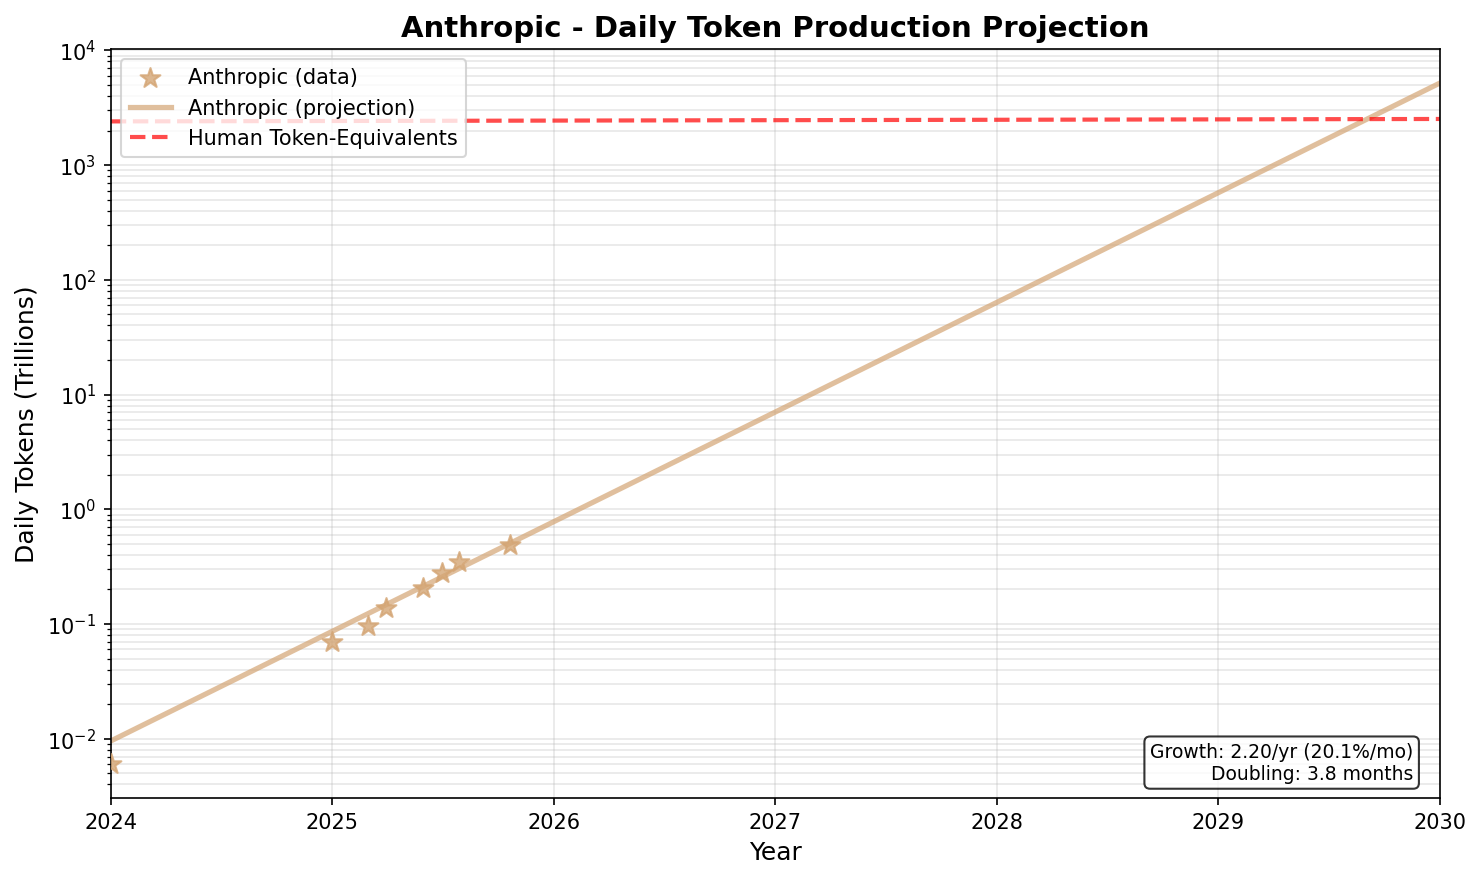
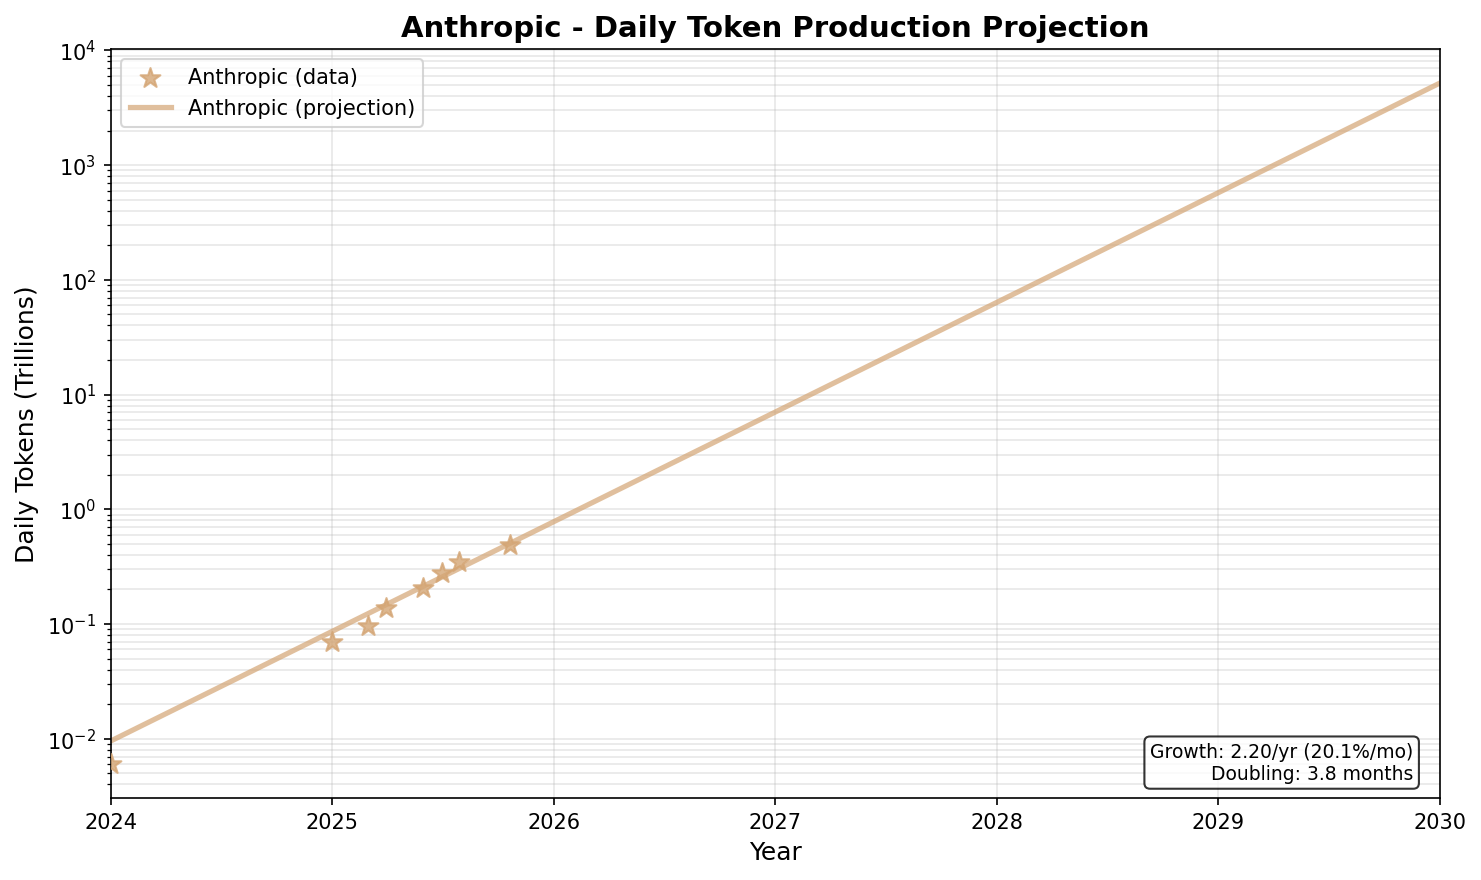
openai projection

Changed region(s): [[0.0621, 0.1227, 0.9629, 0.1841]]

diff --git a/python/welfareseconds/per_company_daily_token_projection.py b/python/welfareseconds/per_company_daily_token_projection.py
@@ -821,7 +821,8 @@ def project_forward(companies: dict, models: dict, end_date: datetime = datetime
         openai_api = series_values.get('OpenAI API', 0)
         openai_inference = series_values.get('OpenAI (Inference)', 0)
         openai_revenue = series_values.get('OpenAI (Revenue)', 0)
-        openai_avg = (openai_chatgpt + openai_api + openai_inference + openai_revenue) / 3
+        # Average 3 methods: (ChatGPT + API), Inference, Revenue
+        openai_avg = ((openai_chatgpt + openai_api) + openai_inference + openai_revenue) / 3
         
         # Google: sum products
         google_total = series_values.get('Gemini Assistant', 0) + series_values.get('Gemini API', 0)
@@ -1060,14 +1061,74 @@ def create_individual_company_plots(companies: dict, models: dict):
     # Time range for plotting
     t_plot = np.linspace(PLOT_BEGIN_DATE, PLOT_END_DATE, 300)
     
-    # Load population data for human token-equivalents line
-    pop_df = pd.read_csv('population.csv')
-    pop_years = pop_df['Year'].values
-    pop_values = pop_df['all years'].values
-    pop_interpolated = np.interp(t_plot, pop_years, pop_values)
-    human_token_equivalents = pop_interpolated * 16 * 60 * 60 * HUMAN_TOKENS_PER_SECOND / 1e12
+    # ==========================================================================
+    # Create combined OpenAI plot with all methods
+    # ==========================================================================
+    fig, ax = plt.subplots(figsize=(12, 7))
     
+    # Get OpenAI data and models
+    openai_series = {name: (companies[name], models[name]) 
+                     for name in companies.keys() if name.startswith('OpenAI')}
+    
+    # Define colors and styles for each OpenAI method
+    openai_styles = {
+        'OpenAI ChatGPT': {'color': '#2ecc71', 'marker': 'o', 'linestyle': '-', 'label': 'ChatGPT'},
+        'OpenAI API': {'color': '#3498db', 'marker': 's', 'linestyle': '-', 'label': 'API'},
+        'OpenAI (Inference)': {'color': '#e74c3c', 'marker': 'P', 'linestyle': '--', 'label': 'Inference-scaled'},
+        'OpenAI (Revenue)': {'color': '#9b59b6', 'marker': '*', 'linestyle': '--', 'label': 'Revenue-scaled'},
+    }
+    
+    # Plot each OpenAI method
+    openai_projections = {}
+    for name, (df, params) in openai_series.items():
+        style = openai_styles[name]
+        
+        # Plot data points
+        ax.scatter(df['decimal_date'], df['daily_tokens'] / 1e12, 
+                   s=80, color=style['color'], marker=style['marker'], 
+                   alpha=0.7, zorder=5)
+        
+        # Plot trendline
+        y_fit = exponential_model(t_plot - 2024, params['a'], params['b']) / 1e12
+        ax.plot(t_plot, y_fit, linestyle=style['linestyle'], color=style['color'], 
+                alpha=0.7, linewidth=2, label=style['label'])
+        
+        openai_projections[name] = y_fit
+    
+    # Calculate and plot ChatGPT + API combined
+    chatgpt_api_combined = openai_projections['OpenAI ChatGPT'] + openai_projections['OpenAI API']
+    ax.plot(t_plot, chatgpt_api_combined, linestyle='-', color='#f39c12', 
+            linewidth=2.5, label='ChatGPT + API', alpha=0.8)
+    
+    # Calculate and plot average of 3 methods: (ChatGPT + API), Inference, Revenue
+    openai_avg = (chatgpt_api_combined + openai_projections['OpenAI (Inference)'] + 
+                  openai_projections['OpenAI (Revenue)']) / 3
+    ax.plot(t_plot, openai_avg, linestyle='-', color='#1a1a1a', 
+            linewidth=3, label='Average (3 methods)', alpha=0.9)
+    
+    ax.set_yscale('log')
+    ax.set_xlabel('Year', fontsize=12)
+    ax.set_ylabel('Daily Tokens (Trillions)', fontsize=12)
+    ax.set_title('OpenAI - Daily Token Production (Multiple Estimation Methods)', fontsize=14, fontweight='bold')
+    
+    ax.legend(loc='upper left', fontsize=9)
+    ax.grid(True, alpha=0.3, which='both')
+    ax.set_xlim(PLOT_BEGIN_DATE, PLOT_END_DATE)
+    
+    plt.tight_layout()
+    filepath = os.path.join(PLOTS_FOLDER, 'openai_combined_projection.png')
+    plt.savefig(filepath, dpi=150, bbox_inches='tight')
+    plt.close(fig)
+    print(f"  Saved {filepath}")
+    
+    # ==========================================================================
+    # Create individual plots for non-OpenAI companies
+    # ==========================================================================
     for name, df in companies.items():
+        # Skip OpenAI - we already made a combined plot
+        if name.startswith('OpenAI'):
+            continue
+            
         fig, ax = plt.subplots(figsize=(10, 6))
         
         # Plot data points
@@ -1080,10 +1141,6 @@ def create_individual_company_plots(companies: dict, models: dict):
         y_fit = exponential_model(t_plot - 2024, params['a'], params['b']) / 1e12
         ax.plot(t_plot, y_fit, '-', color=colors[name], alpha=0.7, linewidth=2.5, 
                 label=f'{name} (projection)')
-        
-        # Plot human token-equivalents for reference
-        ax.plot(t_plot, human_token_equivalents, color='red', linestyle='--', 
-                linewidth=2, label='Human Token-Equivalents', alpha=0.7)
         
         ax.set_yscale('log')
         ax.set_xlabel('Year', fontsize=12)
@@ -1111,7 +1168,14 @@ def create_individual_company_plots(companies: dict, models: dict):
         
         print(f"  Saved {filepath}")
     
-    # Also create a human token-equivalents only plot
+    # Load population data for human token-equivalents plot
+    pop_df = pd.read_csv('population.csv')
+    pop_years = pop_df['Year'].values
+    pop_values = pop_df['all years'].values
+    pop_interpolated = np.interp(t_plot, pop_years, pop_values)
+    human_token_equivalents = pop_interpolated * 16 * 60 * 60 * HUMAN_TOKENS_PER_SECOND / 1e12
+    
+    # Create a human token-equivalents only plot
     fig, ax = plt.subplots(figsize=(10, 6))
     ax.plot(t_plot, human_token_equivalents, color='red', linewidth=2.5, label='Human Token-Equivalents')
     ax.set_yscale('log')
@@ -1182,9 +1246,9 @@ def create_summary_table(companies: dict, models: dict):
     def calc_total(decimal):
         series = {name: exponential_model(decimal - 2024, models[name]['a'], models[name]['b'])
                   for name in companies.keys()}
-        # OpenAI: average 3 methods
-        openai_avg = (series.get('OpenAI ChatGPT', 0) + series.get('OpenAI API', 0) + 
-                      series.get('OpenAI (Inference)', 0) + series.get('OpenAI (Revenue)', 0)) / 3
+        # OpenAI: average 3 methods: (ChatGPT + API), Inference, Revenue
+        openai_product = series.get('OpenAI ChatGPT', 0) + series.get('OpenAI API', 0)
+        openai_avg = (openai_product + series.get('OpenAI (Inference)', 0) + series.get('OpenAI (Revenue)', 0)) / 3
         google_total = series.get('Gemini Assistant', 0) + series.get('Gemini API', 0)
         return openai_avg + google_total + series.get('Meta', 0) + series.get('Anthropic', 0) + series.get('xAI', 0)
     
@@ -1222,7 +1286,8 @@ def export_data(companies: dict, models: dict):
         openai_api = data.get('OpenAI API_daily_tokens', [0]*len(dates))[i]
         openai_inference = data.get('OpenAI (Inference)_daily_tokens', [0]*len(dates))[i]
         openai_revenue = data.get('OpenAI (Revenue)_daily_tokens', [0]*len(dates))[i]
-        openai_avg = (openai_chatgpt + openai_api + openai_inference + openai_revenue) / 3
+        # Average 3 methods: (ChatGPT + API), Inference, Revenue
+        openai_avg = ((openai_chatgpt + openai_api) + openai_inference + openai_revenue) / 3
         
         google_total = data.get('Gemini Assistant_daily_tokens', [0]*len(dates))[i] + data.get('Gemini API_daily_tokens', [0]*len(dates))[i]
         meta_total = data.get('Meta_daily_tokens', [0]*len(dates))[i]

diff --git a/python/welfareseconds/welfare_post.md b/python/welfareseconds/welfare_post.md
@@ -62,15 +62,78 @@ Calculating this is probably the most error prone part of the piece. It turns ou
 
 Our goal is not only to find the number of tokens collectively processed each day today (Dec 2025), but to project this out into the future assuming exponential growth at current rates, so that we can find a crossover point. The assumption of exponential growth is very iffy in the long run, but it's the simplest model that we have that fits the data in the short run (the past 2-3 years).  
 
-Every company has different types of data available for it, and different business models. For Anthropic in particular, we have barely *any* data beyond revenue and inference compute. We'll necessarily have to do a bit of guesswork. Consider these numbers in the spirit of a [Fermi estimate](https://en.wikipedia.org/wiki/Fermi_problem).
+Every company has different types of data available for it, and different business models. For Anthropic in particular, we have barely *any* data beyond revenue and inference compute. We'll necessarily have to do a bit of guesswork. Consider these numbers in the spirit of a [Fermi estimate](https://en.wikipedia.org/wiki/Fermi_problem). Nonetheless, even having Fermi-estimate tier numbers will tell us a lot about the scale of the AI welfare problem. 
 
-Nonetheless, even having Fermi-estimate tier numbers will tell us a lot about the scale of the AI welfare problem. 
+Our methodology to approach this problem is going to be to split the market up into 5 major companies, independently try to estimate a projection of tokens used and then sum these up. In some cases, we'll split the company estimates by product in order to disambiguate between different metrics.
+
+Our companies are:
+1. OpenAI
+2. Anthropic 
+3. Google
+4. Meta
+5. xAI
+Unfortunately, we lack data on smaller competitors and Chinese companies, and thus will have to exclude them from our analysis. We'll attempt to account for this after our initial estimate, though.
+
+### OpenAI
+
+OpenAI is the company for which we have the best quality data. We have direct message counts for ChatGPT between Jun 2024 and Aug 2025, per-year revenue data, per-year inference compute spend, a point-in-time estimate of total tokens processed per day (Sam's tweet), as well as a point-in-time estimate of API token rates.
+
+The approach we'll take to get our final answer is to try multiple different estimation methods, and then average them together to get a final per-company guess.
+
+#### Approaches
+
+**Inference-scaled**: We fit an exponential to the inference compute spending growth trend and then find the interpolated inference in Feb 2024 when Sam made the tweet (which turns out to be \$0.54B). From this, we can calulate you get 248 tokens/day per \$ you spend on inference compute each year.
+
+If we take 1 dollar for 248 tokens a day for a whole year this is equal to \$11/MToken, which seems to be roughly in the right ballpark. (For reference, GPT 5.2 is 1.75\$/MToken for input, and \$14.00/Mtoken for output, but 5.2 Pro is more expensive).
+
+**Revenue-scaled**: This works pretty similarly to the inference-scaled approach, but using the revenue growth trend instead of the inference spending growth trend. The difference is we have 8 data points for revenue instead of just 2 for inference compute, so I'd expect this value to be slightly more reliable. 
+
+The daily tokens per dollar of revenue ends up being equal to \$40/MToken. This is slightly more expensive than I'd expect, but not implausible given that they probably have higher margins from ChatGPT than through the API. 
+
+**Product-Based**: For our final OpenAI analysis, we'll directly look at OpenAI's 2 main products (ChatGPT and the API) and attempt to calculate how many tokens they use individually, and then combine them.
+* **ChatGPT**: We have pretty good data on daily messages for ChatGPT. We'll assume (somewhat arbitrarily) that there are 512 tokens per message. This is a couple of paragraphs in practice.
+* **API**: In their [2025 DevDay video](https://www.youtube.com/watch?v=hS1YqcewH0c), OpenAI notes they process 6B tokens/min on the API, working out to 8.64T tokens/day. We only have that single point-in-time estimate though. We'll use the overall industry growth trend (calculated later) to calculate how fast the API grows. (This is a sketchy assumption, but it's the best we can do with just 1 data point).
 
 
+Here's what they look like plotted together on a graph: 
 
+![OpenAI Token Projections - Multiple Methods](plots/openai_combined_projection.png)
 
+### Anthropic
 
+For Anthropic, the main challenge is that our data is much sparser
 
+- **Data available**: Rich revenue data (8 points: $87M Jan 2024 → $7B Oct 2025), one inference spend data point (~$2B annualized, Jul 2025)
+- **Challenge**: No direct token or message data; must infer from financial metrics
+- **Approach**: Use tokens-per-revenue ratio derived from OpenAI's anchor point (Sam's tweet + OpenAI revenue at that date), apply to Anthropic's revenue curve
+- **Rationale**: Revenue should scale roughly with token production (more usage → more revenue); this leverages Anthropic's actual growth curve rather than assuming arbitrary rates
+
+### Google
+
+- **Data available**: "All AI products" figures (9.7T → 1.3Q monthly tokens), Gemini API rate (7B/min, Oct 2025), Gemini chat messages (140M/day, Mar 2025), Gemini MAU data
+- **Challenge**: "All AI products" includes Search AI Overviews, Translate, etc. which don't scale comparably to LLM inference
+- **Approach**: Use Gemini-only data, split into two series:
+  - **Gemini Assistant**: MAU × messages-per-MAU ratio (0.4, from Mar 2025 data) × 512 tokens/message
+  - **Gemini API**: Direct token measurement (10.08T/day from 7B/min)
+- **Rationale**: Excluding "all AI products" makes Google comparable to other enterprise AI providers; the inflated figures would skew the total unrealistically
+- **Note**: "All AI products" data points are shown on charts for reference but excluded from projections
+
+### Meta
+
+- **Data available**: Rich MAU data (400M Sep 2024 → 1B May 2025, then plateaued), daily messages (200M, Mar 2025 from Google antitrust trial)
+- **Challenge**: MAU data is abundant but messages data is sparse (single point)
+- **Approach**: 
+  - Interpolate MAU at Mar 2025 (~850M) from surrounding data points
+  - Compute messages/MAU ratio: 200M messages / 850M MAU = 0.235 messages/MAU/day
+  - Apply ratio to all MAU data points, convert to tokens (× 512 tokens/message)
+- **Rationale**: MAU growth drives message growth; the messages/MAU ratio captures engagement intensity and allows extrapolation from the richer MAU dataset
+
+### xAI
+
+- **Data available**: Revenue data (4 points: $100M Nov 2024 → $500M Jul 2025), daily messages (75M, Mar 2025 from Google trial)
+- **Challenge**: No direct token or inference spend data; newest and smallest of the major players
+- **Approach**: Use tokens-per-revenue ratio (same as Anthropic method), apply to xAI's revenue data
+- **Rationale**: Revenue-based estimation is the most reliable method given available data; actual revenue growth (4 points) is better than arbitrary assumptions
 
 ## Summary
 
